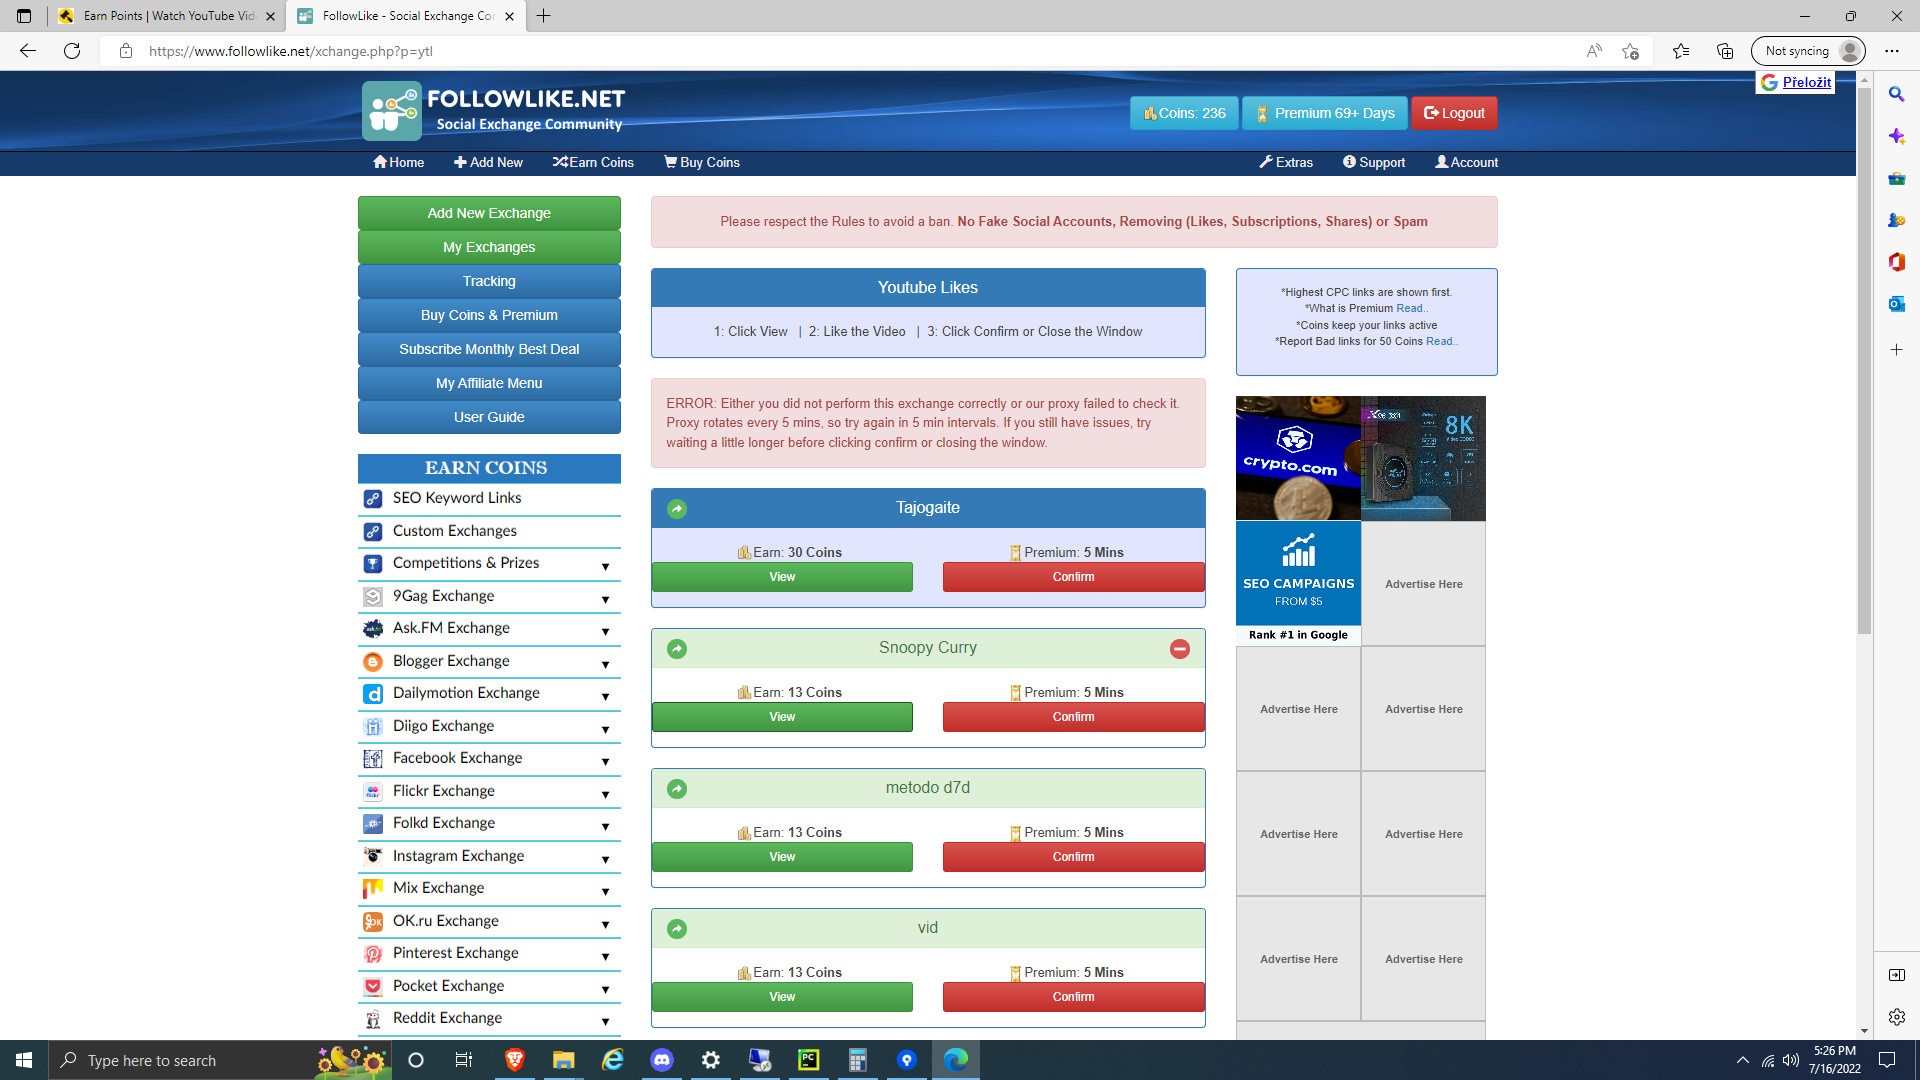
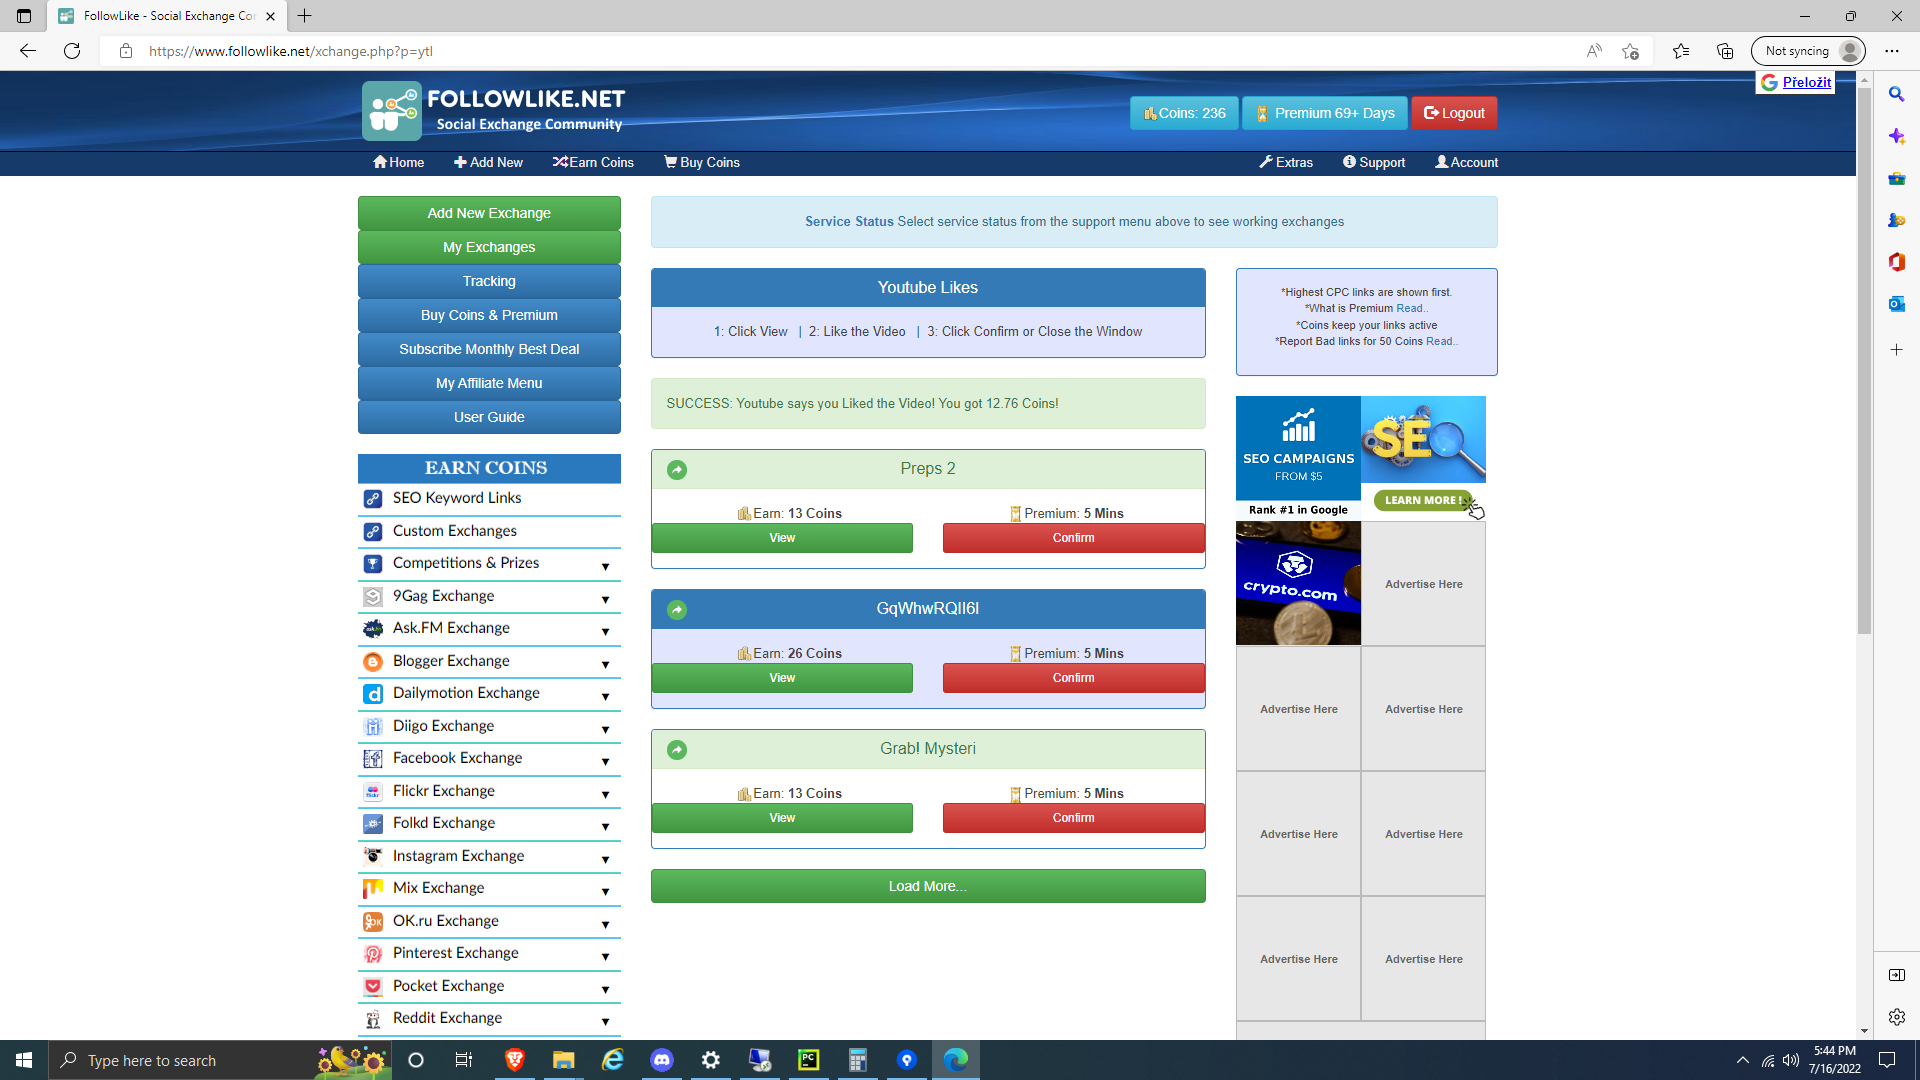
first one finalised

Changed region(s): [[0.3125, 0.3667, 0.7812, 0.9472], [0.3125, 0.1833, 0.7812, 0.2444], [0.0, 0.0, 0.2812, 0.0306]]

diff --git a/CV_socials/trying.py b/CV_socials/trying.py
@@ -27,3 +27,7 @@ time.sleep(5)
 takeSS_findTemplateInScreen_clickOnTemplate("screenshot_step1", "view4")
 time.sleep(3)
 takeSS_findTemplateInScreen_clickOnTemplate("screenshot_step2", "maximize_window")
+time.sleep(3)
+takeSS_findTemplateInScreen_clickOnTemplate("screenshot_step3", "thumbsUP")
+time.sleep(8)
+takeSS_findTemplateInScreen_clickOnTemplate("screenshot_step4", "crossClose2")
